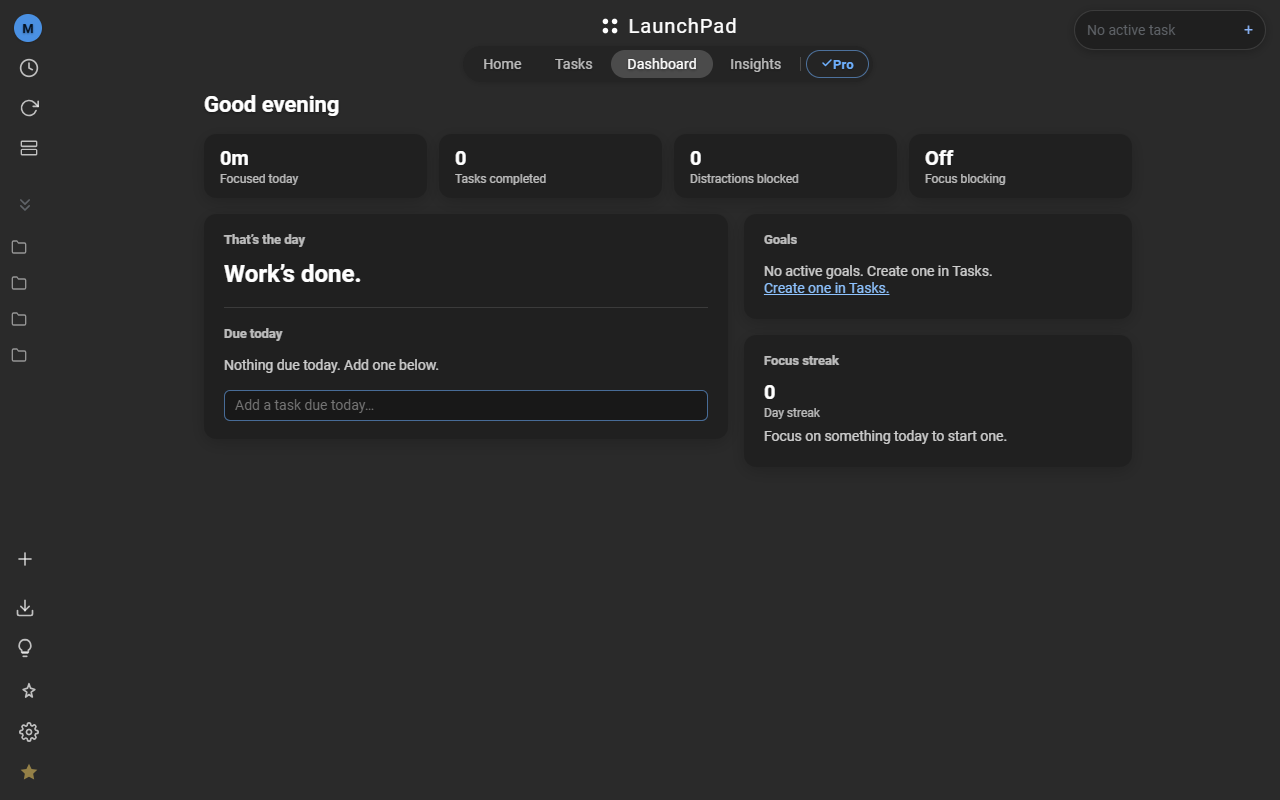
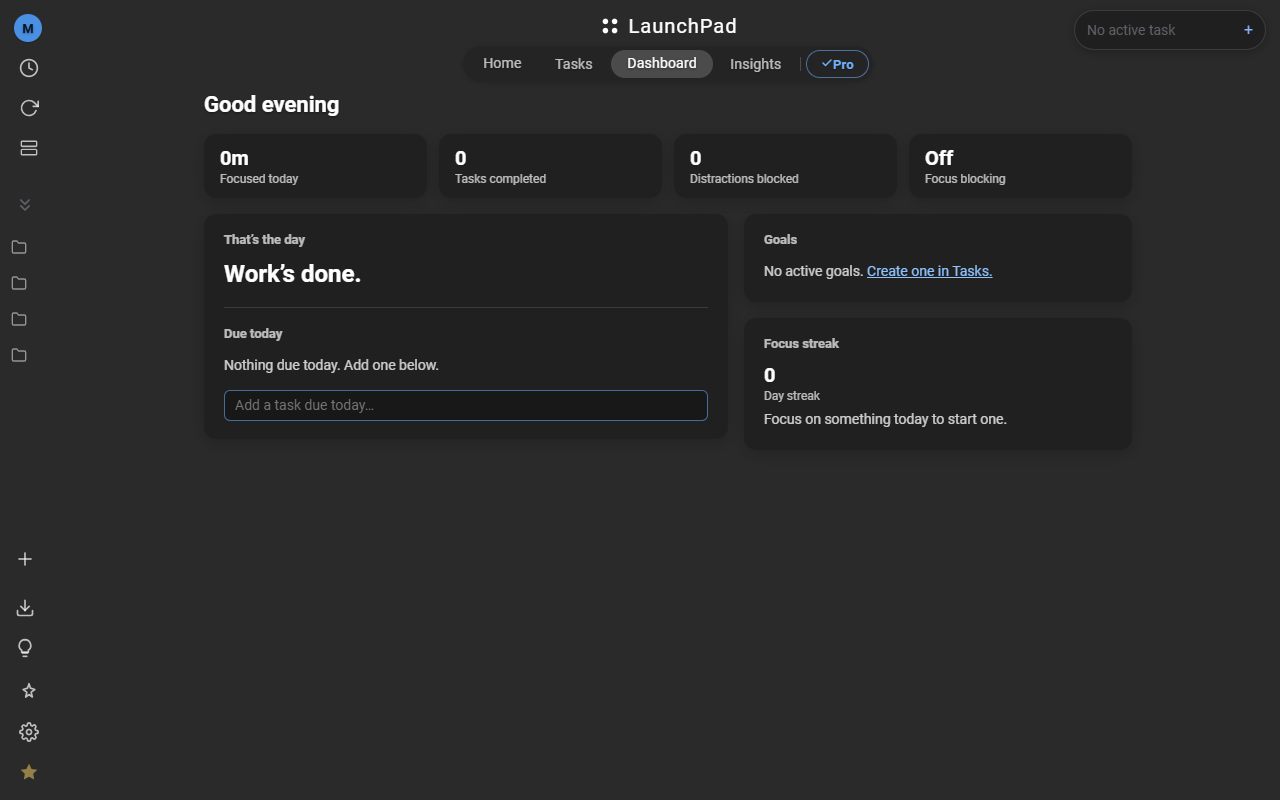
fix: remove duplicated empty-state action, raise Tasks empty states to match the preview (refs Asana 1218038783461517)
FIX 1. dash_no_active_goals reverts to "No active goals." dashGoalsHtml()
already appends a "Create one in Tasks." link on the same line, so the
[1.6.5] rewrite rendered that sentence twice, once as prose and once as the
control. The translator description now says the link follows, so the call
to action cannot be added back in another locale.

FIX 2. newtab.js:4215 and 4229 render the REAL Tasks tab's standalone and
recurring empty states as hardcoded English literals, terser than the
free-tier preview's equivalents, so the preview promised a better product
than the product. Extended in place to match. They are concatenated between
two markup fragments and so are invisible to the i18n site gate; catalogue
migration belongs to R5 (Asana 1218050333264862).

The render sites of all eight [1.6.5] strings were read. No second instance
of the duplication; details in the Asana comment.

BUGS.md D22 (a copy rule about a surface cannot be applied to a string in
isolation) and P21 (a presence assertion is not a visibility assertion).

Frames 12 through 16 re-captured, each string asserted VISIBLE in the
1280x800 viewport box rather than merely present, plus an occurrence count
proving "Create one in Tasks." now renders exactly once.

diff --git a/newtab.js b/newtab.js
@@ -4211,8 +4211,15 @@
       ? '<ul class="tt-standalone-list">' +
           standaloneVisible.map(function (t) { return taskRowHtml(workspace, t); }).join("") +
         '</ul>'
+      // [1.6.5] Raised to match the free-tier preview's wording, which was the
+      // only copy of this sentence that got the empty-state pass. The preview
+      // read better than the product it previews, which inverts the
+      // preview-is-the-promise rule rather than merely missing it. Extended in
+      // place, English literals for now: these are concatenated BETWEEN two
+      // markup fragments, so they are invisible to the i18n site gate and were
+      // never migrated. Catalogue migration belongs to R5 (Asana 1218050333264862).
       : '<div class="tt-empty-state">' +
-          (tasksFiltersNarrowing() && standaloneActive.length ? 'No standalone tasks match the current filter.' : 'No standalone tasks.') +
+          (tasksFiltersNarrowing() && standaloneActive.length ? 'No standalone tasks match the current filter.' : 'No standalone tasks. New tasks land here unless you pick a goal.') +
         '</div>';
 
     // [1.0.12] Recurring: tag filter only (templates carry no priority/status);
@@ -4225,8 +4232,11 @@
       ? '<ul class="tt-recurring-list">' +
           recurringVisible.map(function (t) { return recurringRowHtml(workspace, t); }).join("") +
         '</ul>'
+      // [1.6.5] Same raise as the standalone list above, same R5 caveat. The
+      // "New Recurring" this names is the real button in this tab's own header,
+      // so the instruction is actionable from here.
       : '<div class="tt-empty-state">' +
-          (taskFilterState.tagIds.length && recurringTemplates.length ? 'No recurring tasks match the current filter.' : 'No recurring tasks.') +
+          (taskFilterState.tagIds.length && recurringTemplates.length ? 'No recurring tasks match the current filter.' : 'No recurring tasks. Create one with New Recurring.') +
         '</div>';
 
     // [1.0.12] Status drives ACTIVE-section visibility (locked interaction

diff --git a/locales/en.js b/locales/en.js
@@ -2492,8 +2492,8 @@ I18n.register("en", {
     "description": "Accessible name for the checkbox that completes a due task. {taskName} is the user's task title."
   },
   "dash_no_active_goals": {
-    "message": "No active goals. Create one in Tasks.",
-    "description": "Dashboard goals empty state. The 'Create one in Tasks' control follows as a sibling; the sentence used to run into it through an em dash."
+    "message": "No active goals.",
+    "description": "Dashboard goals empty state, in dashGoalsHtml(). STATE THE CONDITION ONLY, NEVER THE ACTION: the renderer appends a 'Create one in Tasks.' link (dash_create_one_in_tasks) immediately after this string, on the same line, so any call to action added here renders TWICE. [1.6.5] added 'Create one in Tasks.' to this message and shipped exactly that duplication. The sentence used to run into the link through an em dash; R4 made both halves standalone sentences."
   },
   "focusblock_remove_site": {
     "message": "Remove {site}",

diff --git a/docs/BUGS.md b/docs/BUGS.md
@@ -120,6 +120,14 @@ Run when the task touched the main extension code (not docs, not workflow).
 
   **Only the direction that fails SILENTLY is enforced.** `th()` at a text sink is loud and cosmetic (the user reads `Don&#39;t`); `t()` spliced into markup is silent and is an injection hole the moment a value carries a tag. The gate flags a bare `t()` whose immediately adjacent literal opens an attribute value or contains a tag — adjacency, not statement-wide, because a statement-wide test flags every legitimate `t()` that merely shares a function with markup, and a gate that cries wolf gets switched off. A user-supplied value goes in RAW and the accessor escapes the finished sentence; pre-escaping the value is the double-escape all over again. `844e322`, `d51e38e`.
 
+- **D22. A COPY RULE ABOUT A SURFACE CANNOT BE APPLIED TO A STRING IN ISOLATION — READ THE RENDER SITE BEFORE EDITING THE WORDS.** "One sentence, one action" is a property of what the user SEES, and what the user sees is the string plus whatever the renderer puts beside it. `[1.6.5]` rewrote eight empty states to that rule and rewrote each one in the catalogue. `dash_no_active_goals` became "No active goals. Create one in Tasks." — and `dashGoalsHtml()` already appends a `dash_create_one_in_tasks` link reading "Create one in Tasks." on the same line. The rendered surface said it **twice**, once as prose and once as the control.
+
+  **THE STRING WAS CHECKED AGAINST EVERYTHING EXCEPT THE THING THAT RENDERS IT.** It was checked against the gates (none assert its value), against the catalogue (well-formed, described, no em dash), and against the copy rule itself (one sentence, one action — true of the string, false of the surface). Every one of those checks passed, and the surface was still wrong. The entry's own translator description even recorded that R4 had split the sentence off the button, which is precisely the note that should have stopped it and did not, because nobody read it while editing the value above it.
+
+  **THE CHECK IS ONE LINE OF WORK AND IT IS NOT OPTIONAL:** for each string, open its render site and say what the renderer emits immediately before and after it. Applied to the other seven afterwards it found no second instance, but it also showed that "correct" varies with the neighbour — `goal_no_tasks_yet` ("Add the first one below.") sits directly above a `+ Add task` button and is right precisely BECAUSE it describes the control rather than restating its label. Prose that names an adjacent control's own words is the defect; prose that points at it is the pattern.
+
+  **Generalises to any rule stated about a surface** — an empty state, an error, a confirmation, a tooltip. The renderer is part of the sentence. Descriptions are also the enforcement point across languages: this one now tells the translator the link follows, so the call to action cannot be added back in another locale. Asana 1218038783461517.
+
 ### Section E: Data Integrity
 
 Run when the task touched: storage, backup/export, migration logic, or the `data` schema.
@@ -631,6 +639,14 @@ Run when the task adds, extends, or relies on any automated gate, harness, or ge
   **THE FIX IS TO ASSERT THE VALUE, NOT ITS SPELLING.** today-cockpit's was rewritten to accept a literal OR a token and to RESOLVE the token against `:root` before comparing — which also made it strictly stronger, since it now catches a token silently redefined to a different value, something the literal check could never have done. The other two were left asserting literals and their declarations were kept as literals with a comment saying why, because changing them was out of that round's scope. **A declaration pinned as a literal by a gate is a debt, not a resting state**: it is invisible to every later token sweep and will be "tidied" by someone who does not know why it is there.
 
   Distinguish from its neighbours: **P16** is over-specification in a negative assertion (silent pass), **P17** is the `\b` trap (false failure). This one is a positive assertion whose over-specification makes an unrelated refactor impossible and, when it does fire, points at the wrong rule. `9634450`, Asana 1218038783461517.
+
+- **P21. A PRESENCE ASSERTION IS NOT A VISIBILITY ASSERTION — `innerText.indexOf(s) !== -1` proves the string EXISTS, never that anyone can see it.** The `[1.6.5]` checkpoint captured the free-tier Tasks preview to photograph two rewritten empty states, and asserted both were present. Both were present. One sat **below the fold**, so the delivered frame did not show the state it existed to show, and the run reported green. A screenshot harness whose assertions cannot see the viewport is asserting about the DOM while claiming to be asserting about a picture.
+
+  **THE FIX IS TO MEASURE THE BOX**: the element's `getBoundingClientRect()` must be non-zero, not `visibility:hidden` / `display:none`, and wholly inside the captured viewport. Anything less admits four different invisibles — below the fold, zero-sized, painted off to the side, and present-but-hidden — all of which read identically to a presence test.
+
+  **THE SECOND-ORDER TRAP, WHICH BIT ON THE VERY NEXT RUN.** The first visibility check took the FIRST innermost element matching the text and measured that. "No active goals." is a **substring** of the Tasks tab's own "No active goals. Create your first goal.", which lives in a hidden panel earlier in the document, so the check measured a 0x0 box and failed a string that was plainly on screen. A false failure this time, and a false PASS the moment the order runs the other way. So a visibility check must **consider every match and pass if any one is painted**, and report all boxes so the choice is auditable.
+
+  **This generalises to every screenshot harness the project writes**, and `[1.7.0]` and `[1.8.0]` rebuild two boards. Related but distinct: **P13**'s vacuous pass is an inspection set that collapsed to nothing; this one inspects exactly the right element and asks it the wrong question. Asana 1218038783461517.
 
 Originating data points: the three `[1.0.18]` Round B / tags rounds. P1 was paid for in `a7cf131`, where three silent-but-well-formed WAV files were caught only by peak + DFT measurement. P2 came out of mutation-testing the ink gate erected in `8902816` — the mutation pass found the gate crediting the wrong theme class and, separately, silently inspecting zero nodes. P3 generalizes the practice that caught both, and the L2 discipline it descends from. P4 and P5 come out of the `[1.2.0]`/`[1.2.1]` trio rounds: P4 from the flash contradiction, P5 from discovering that eight rounds of harnesses had left no trace in the repo.
 
